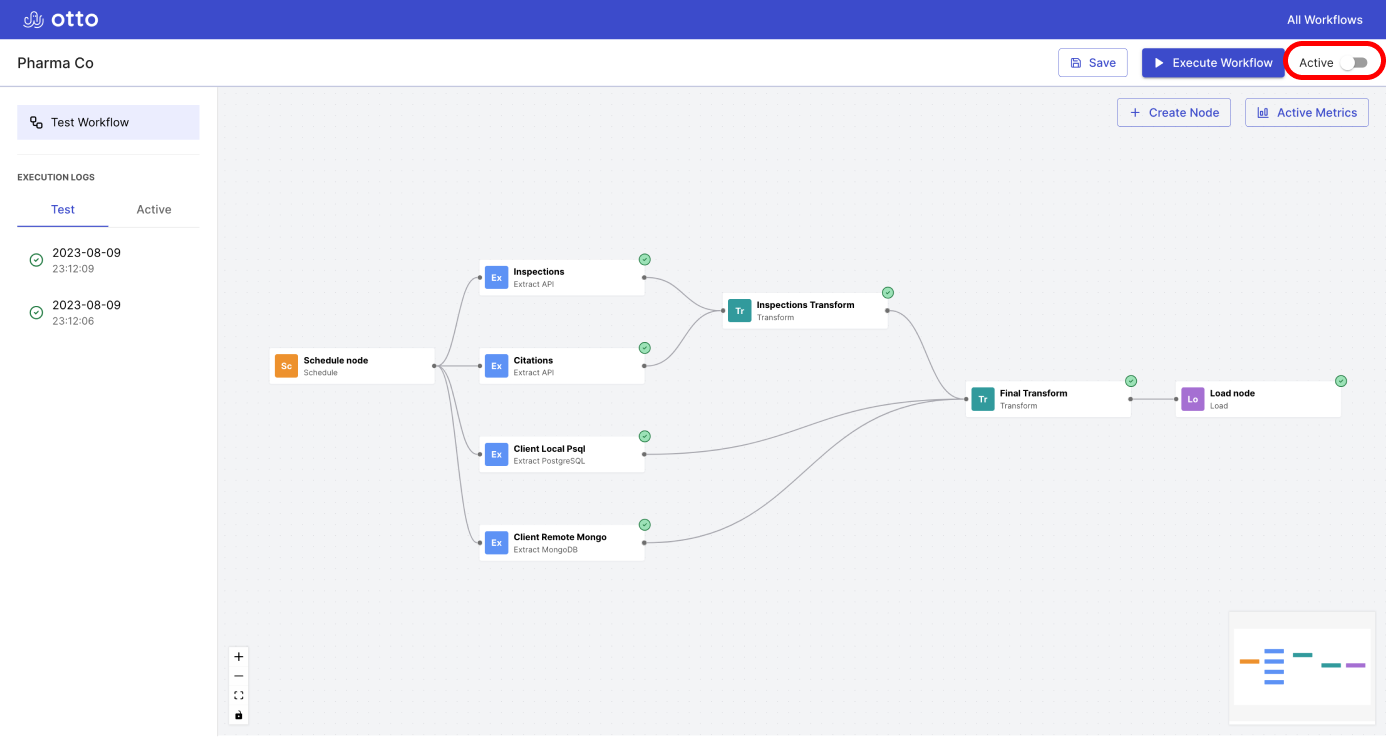
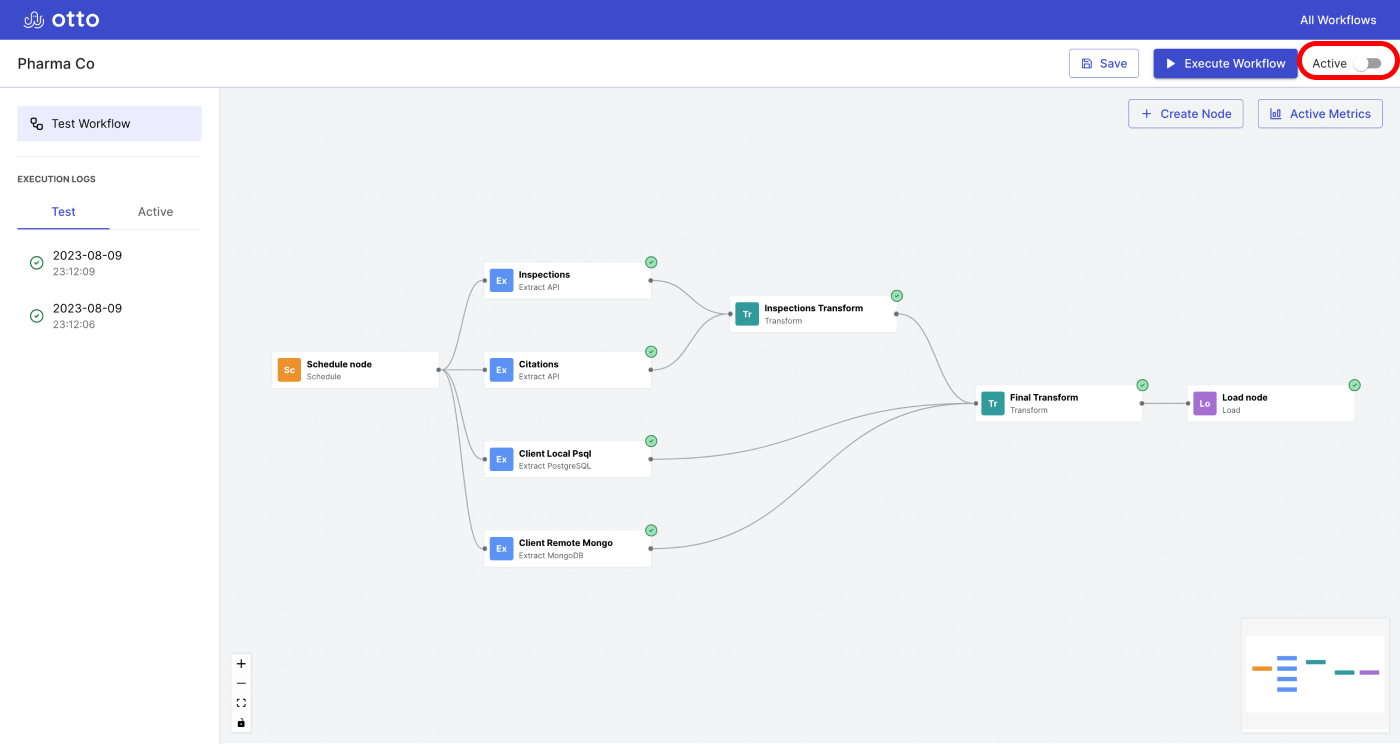
modified screenshots to remove white edges

diff --git a/src/css/custom.css b/src/css/custom.css
@@ -117,6 +117,11 @@ h6 {
     rgba(238, 235, 254, 0) 64.58%
   );
   --docusaurus-highlighted-code-line-bg: rgba(0, 0, 0, 0.1);
+  --shadow-color: 0deg 0% 0%;
+  --shadow-elevation-medium: 0.3px 0.5px 0.7px hsl(var(--shadow-color) / 0.11),
+    0.8px 1.6px 2px -0.8px hsl(var(--shadow-color) / 0.11),
+    2.1px 4.1px 5.2px -1.7px hsl(var(--shadow-color) / 0.11),
+    5px 10px 12.6px -2.5px hsl(var(--shadow-color) / 0.11);
 }
 
 /* For readability concerns, you should choose a lighter palette in dark mode. */
@@ -194,10 +199,15 @@ article div.footnotes li {
   font-size: 0.875rem;
 }
 
+article > div.theme-doc-markdown.markdown img {
+  box-shadow: var(--shadow-elevation-medium);
+}
+
 @media (max-width: 576px) {
   article > div.theme-doc-markdown.markdown img {
     margin-top: 2rem;
     margin-bottom: 2rem;
+    box-shadow: var(--shadow-elevation-medium);
   }
 
   article h2 {

diff --git a/src/pages/index.js b/src/pages/index.js
@@ -86,7 +86,7 @@ export default function Home() {
           Workflow logs allow you to review previous executions and diagnose
           workflow failures
         </Typography>
-        <img src="img/screenshots/entire_workflow.png" />
+        <img src="img/graphs/workflow.png" />
         <Typography
           variant="h2"
           sx={{ color: "var(--ifm-color-primary)", textAlign: "center" }}
@@ -97,7 +97,7 @@ export default function Home() {
           Metrics allow you to view the performance of your workflow and
           pinpoint issues when things go wrong
         </Typography>
-        <img src="img/screenshots/metric_page.png" />
+        <img src="img/graphs/metricsSS.png" />
       </Container>
     </Layout>
   );
